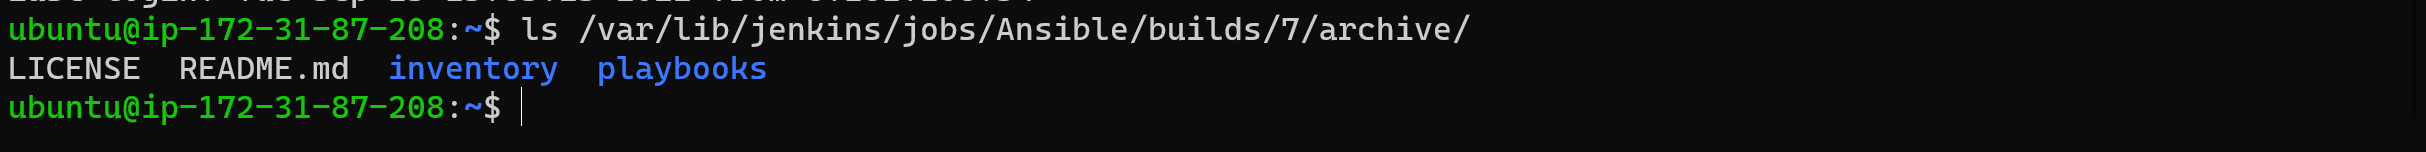
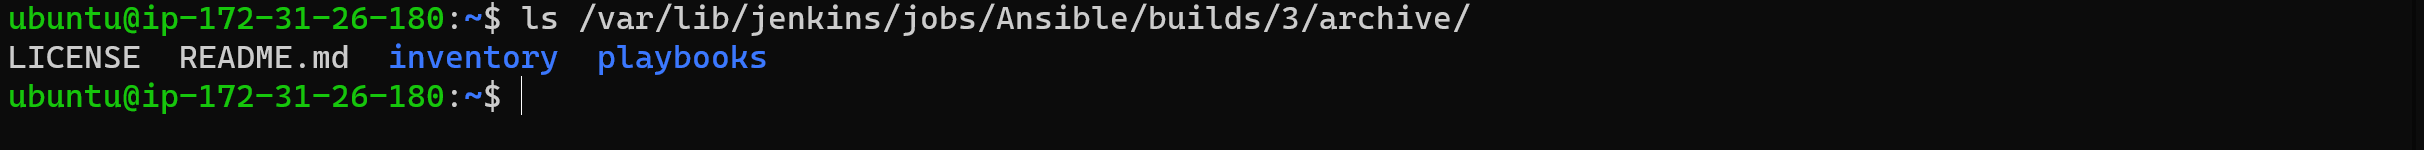
updated

Changed region(s): [[0.0, 0.0, 0.6188, 0.56], [0.0, 0.56, 0.2166, 0.8], [0.0, 0.0, 0.0309, 0.0267]]

diff --git a/project_11.md b/project_11.md
@@ -142,7 +142,7 @@ Within the ```inventory``` folder, create an inventory file (.yml) for each envi
 Install and start OpenSSH for windows. Run windows terminal in ```administrator``` mode.
 
 ```bash
- # Install the OpenSSH Client
+ # If this you first time - Install the OpenSSH Client on Windows OS
  
 Add-WindowsCapability -Online -Name OpenSSH.Client~~~~0.0.1.0
 
@@ -184,8 +184,11 @@ Get-Service ssh-agent
 Now load your private key file into ssh-agent and log into the Jenkins-Ansible instance using the defualt username ```ubuntu``` and the ```public-dns or public-ip```
 
 ```bash
+# Add ssh agent
 ssh-add bammy-ec2.pem
- ssh -A ubuntu@ec2-3-86-45-0.compute-1.amazonaws.com
+
+#login with the ssh agent
+ssh -A ubuntu@ec2-3-86-45-0.compute-1.amazonaws.com
 ```
 
 ![configuration succesful](./images/27.png)
@@ -277,16 +280,36 @@ Confirmation Jenkins automatic build
 ![configuration succesful](./images/33.png)
 from terminal
 ```bash
-ls /var/lib/jenkins/jobs/Ansible/builds/7/archive/
+ls /var/lib/jenkins/jobs/Ansible/builds/3/archive/
 ```
 ![configuration succesful](./images/34.png)
 
-Run first Ansible test
-> clone the repo to jenkins instance  
->```git clone <repo url>```
-```bash
-cd ansible-config-mgt
+Switched back to branch ```main```
+
+```bash 
+git checkout main 
+
+# Pull down the latest changes.
+git pull
 ```
+
+![configuration succesful](./images/35.png)
+
+Run first Ansible Playbook - change to the build artifacts directory
+
 ```bash
+cd /var/lib/jenkins/jobs/Ansible/builds/3/archive
+```
+
+![configuration succesful](./images/36.png)
+
+```bash
+# Run ansible playbook
 ansible-playbook -i inventory/dev.yml playbooks/common.yml
 ```
+![configuration succesful](./images/37.png)
+
+On each server, check if wireshark has been installed by running ```which wireshark``` or ```wireshark --version```
+
+![wireshark succesfully](./images/38.png)
+
